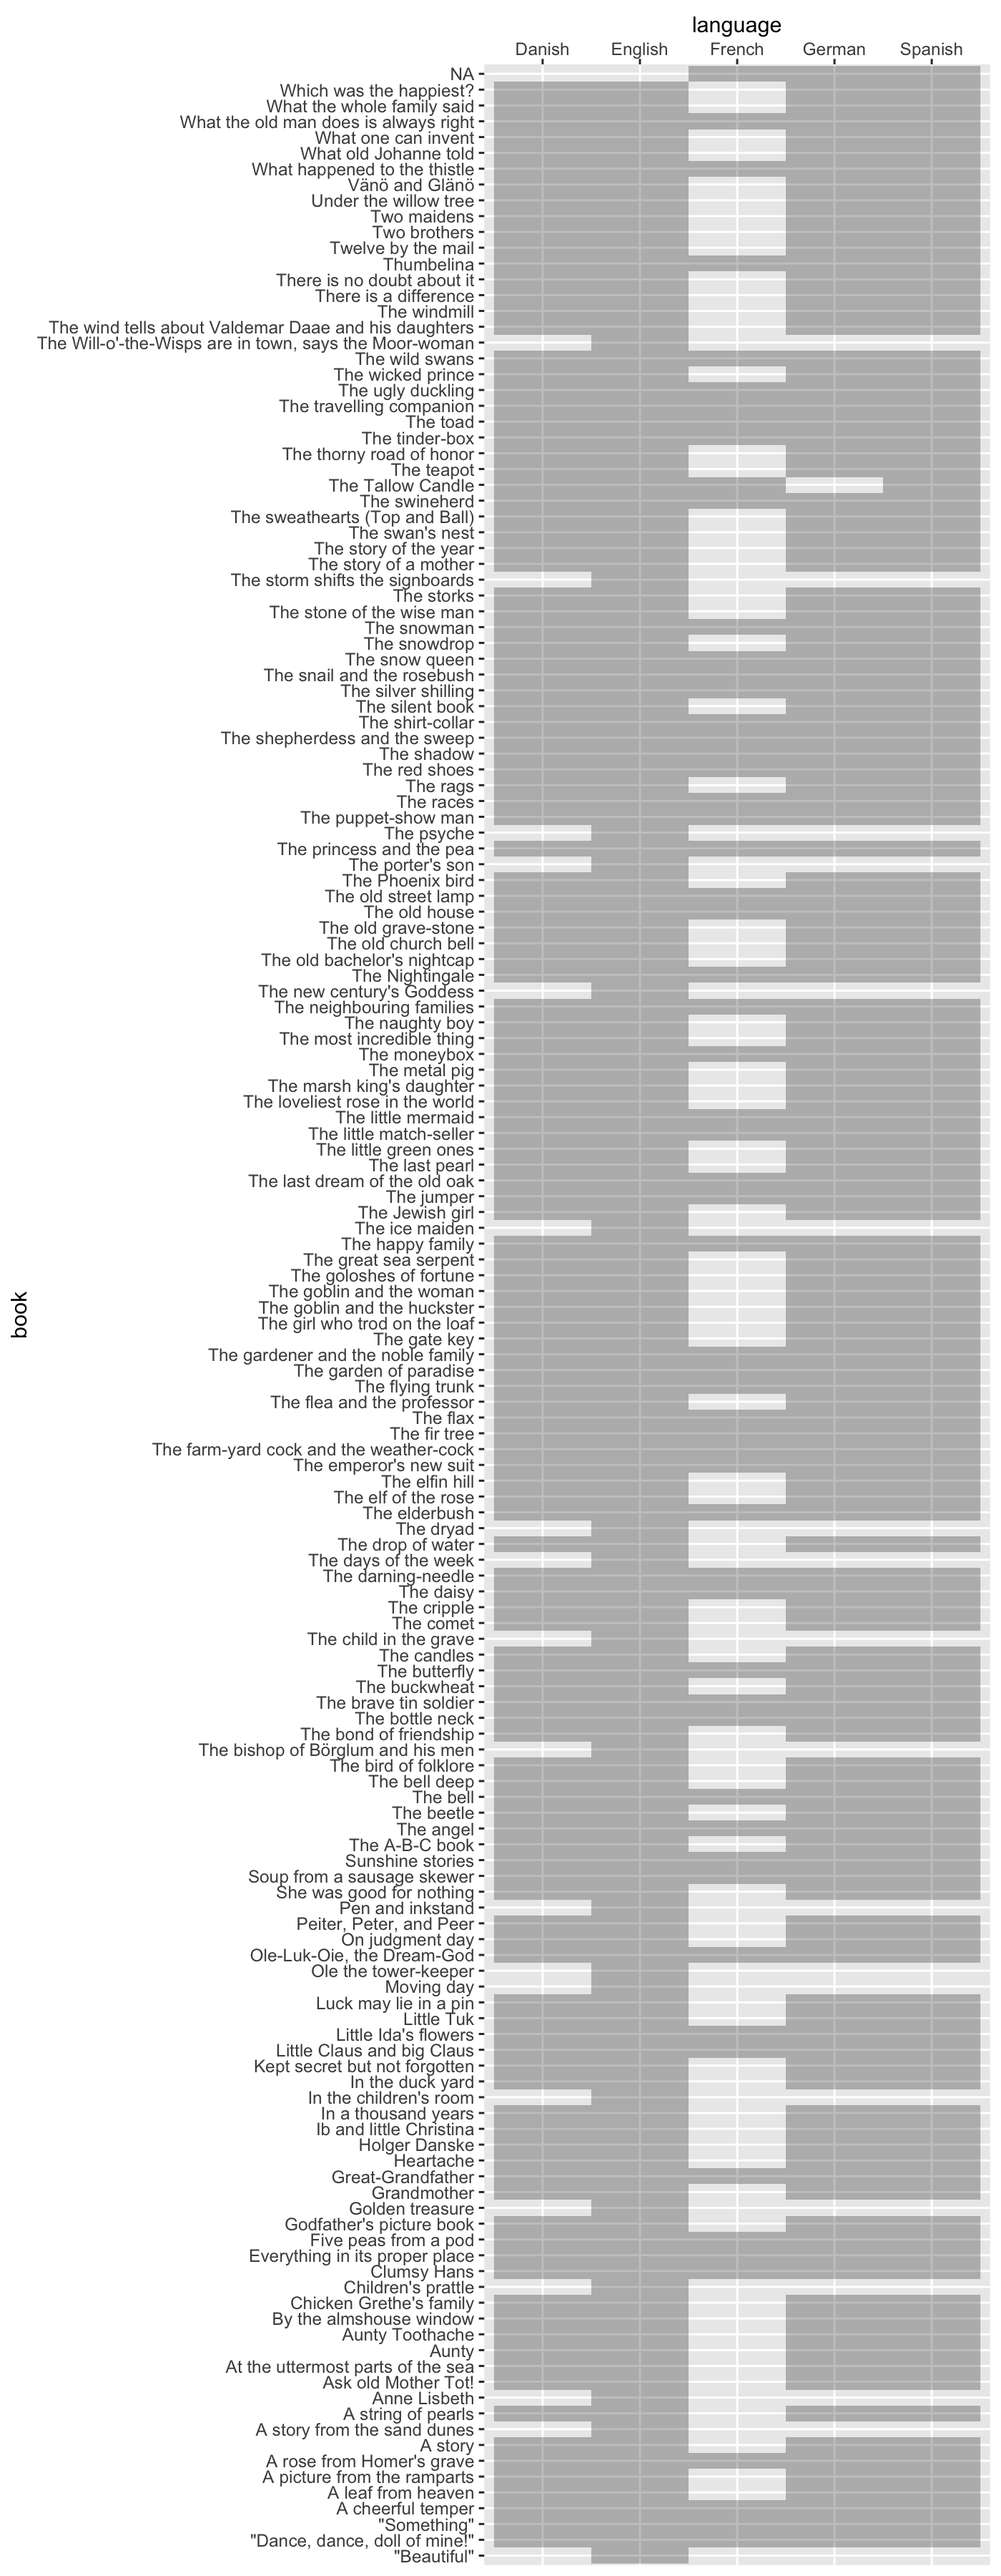
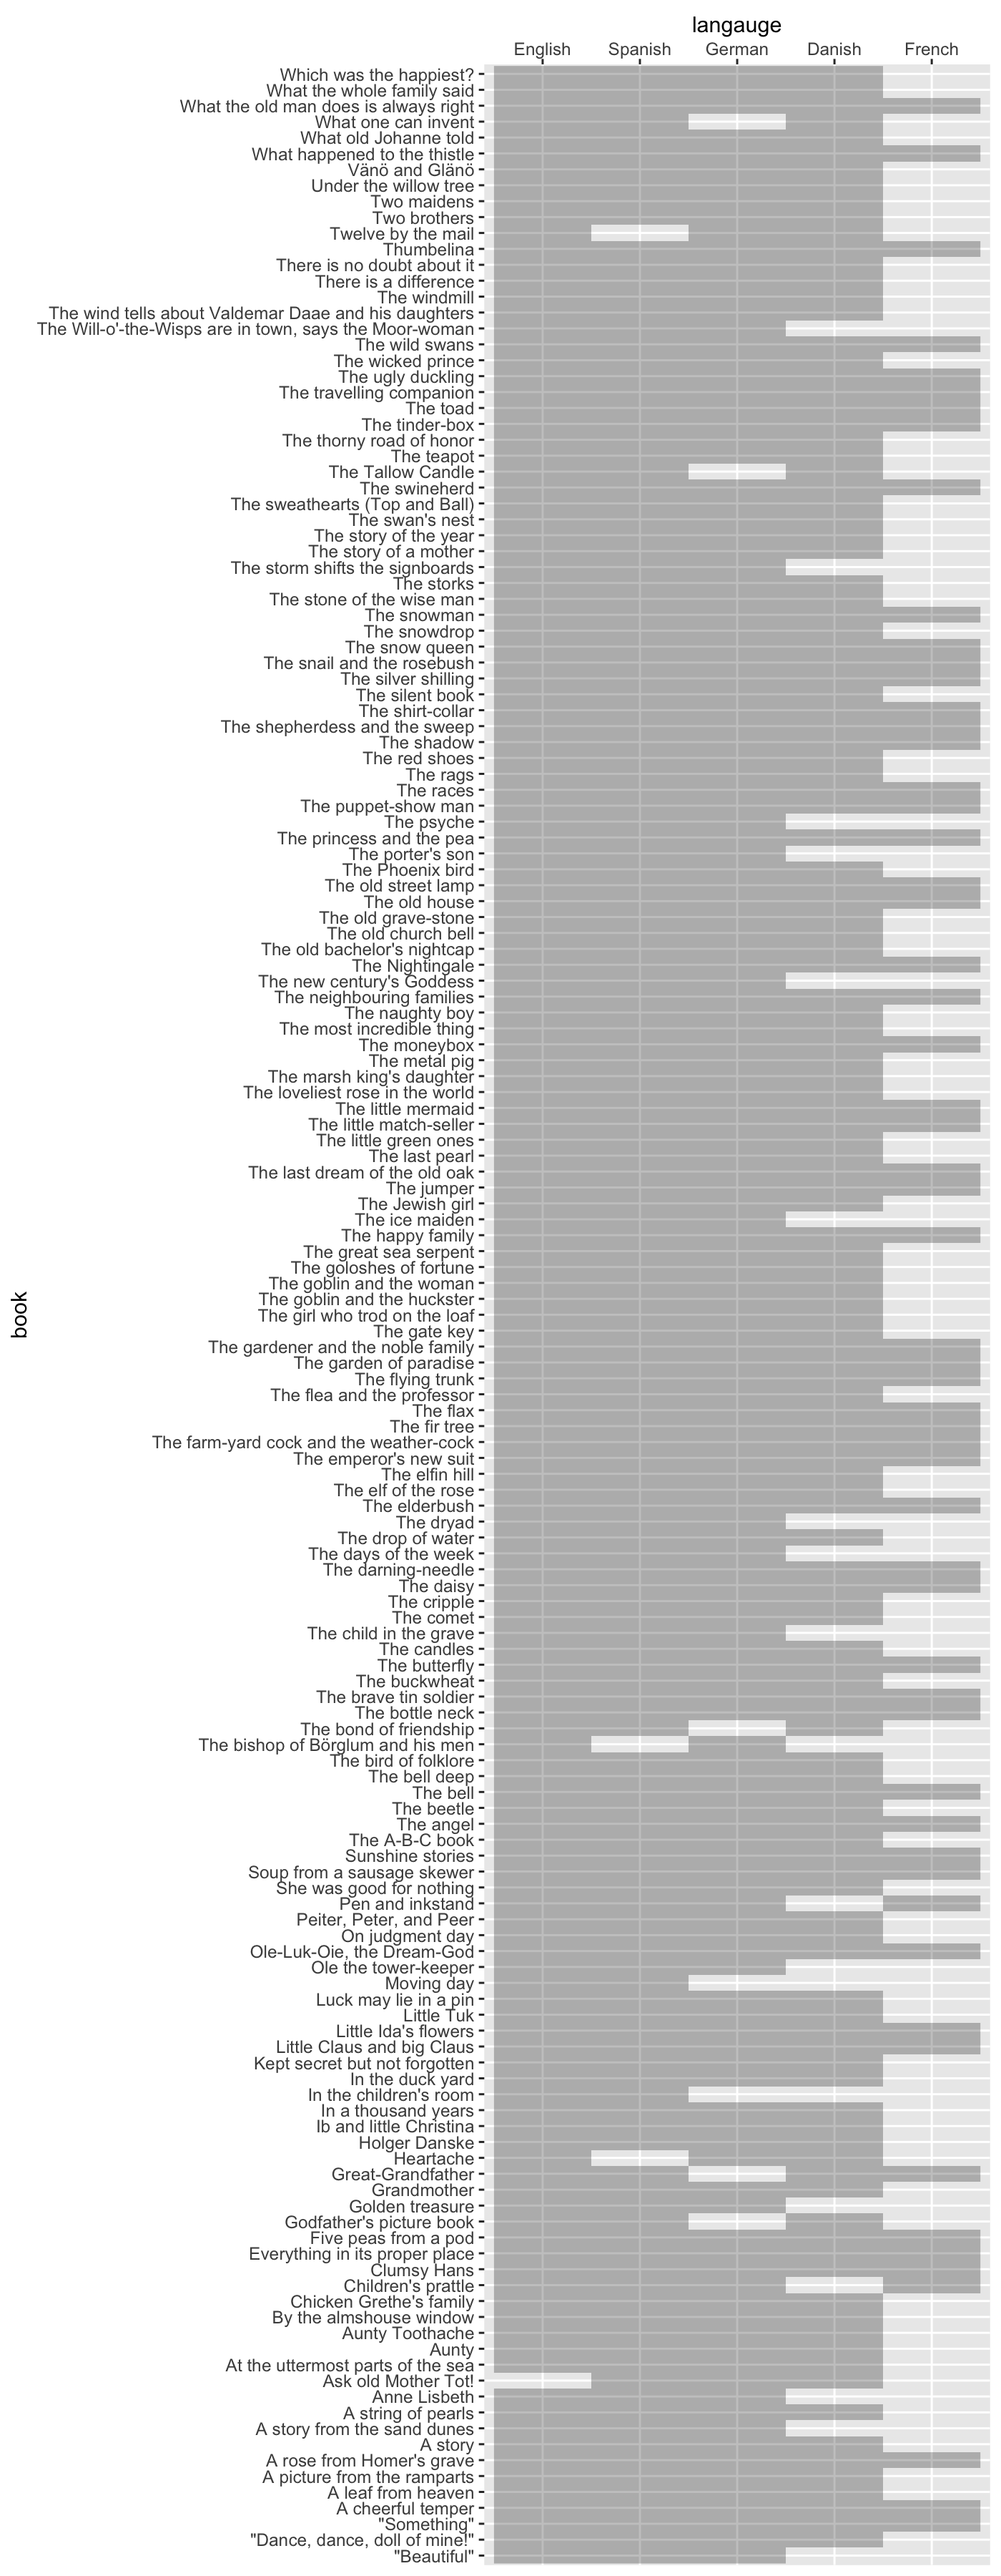
Update readme

Changed region(s): [[0.0307, 0.0, 0.9829, 0.9956], [0.4914, 0.0, 0.6757, 0.0311]]

diff --git a/README.md b/README.md
@@ -11,10 +11,10 @@ An R Package for H.C. Andersens fairy tales
 This package contains (most) the complete texts of 157 fairy tales of H.C. Andersen, in a number of different languages. formatted to be convenient for text analysis. Where each text is formatted to elements of about 80 characters. The package contains:
 
 -   `hcandersen_da`: 138 out of the 157 Fairy tales in Danish
--   `hcandersen_de`: 156 out of the 157 Fairy tales in German
--   `hcandersen_en`: 157 out of the 157 Fairy tales in English
--   `hcandersen_es`: 157 out of the 157 Fairy tales in Spanish
--   `hcandersen_fr`: 61 out of the 157 Fairy tales in French
+-   `hcandersen_de`: 150 out of the 157 Fairy tales in German
+-   `hcandersen_en`: 156 out of the 157 Fairy tales in English
+-   `hcandersen_es`: 154 out of the 157 Fairy tales in Spanish
+-   `hcandersen_fr`: 58 out of the 157 Fairy tales in French
 -   `EK`: dataframe with ID, names and publishing dates
 -   `hca_fairytales`: Complete collection of all fairytales in this package
 
@@ -27,7 +27,8 @@ library(tidyverse)
 hca_fairytales() %>% 
   select(book, language) %>% 
   unique() %>% 
-  ggplot(aes(language, book)) + 
+  mutate(langauge = fct_relevel(language, c("English", "Spanish", "German", "Danish", "French"))) %>%
+  ggplot(aes(langauge, book)) + 
   geom_raster(alpha = 0.3) +
   scale_x_discrete(position = "top")
 ```
